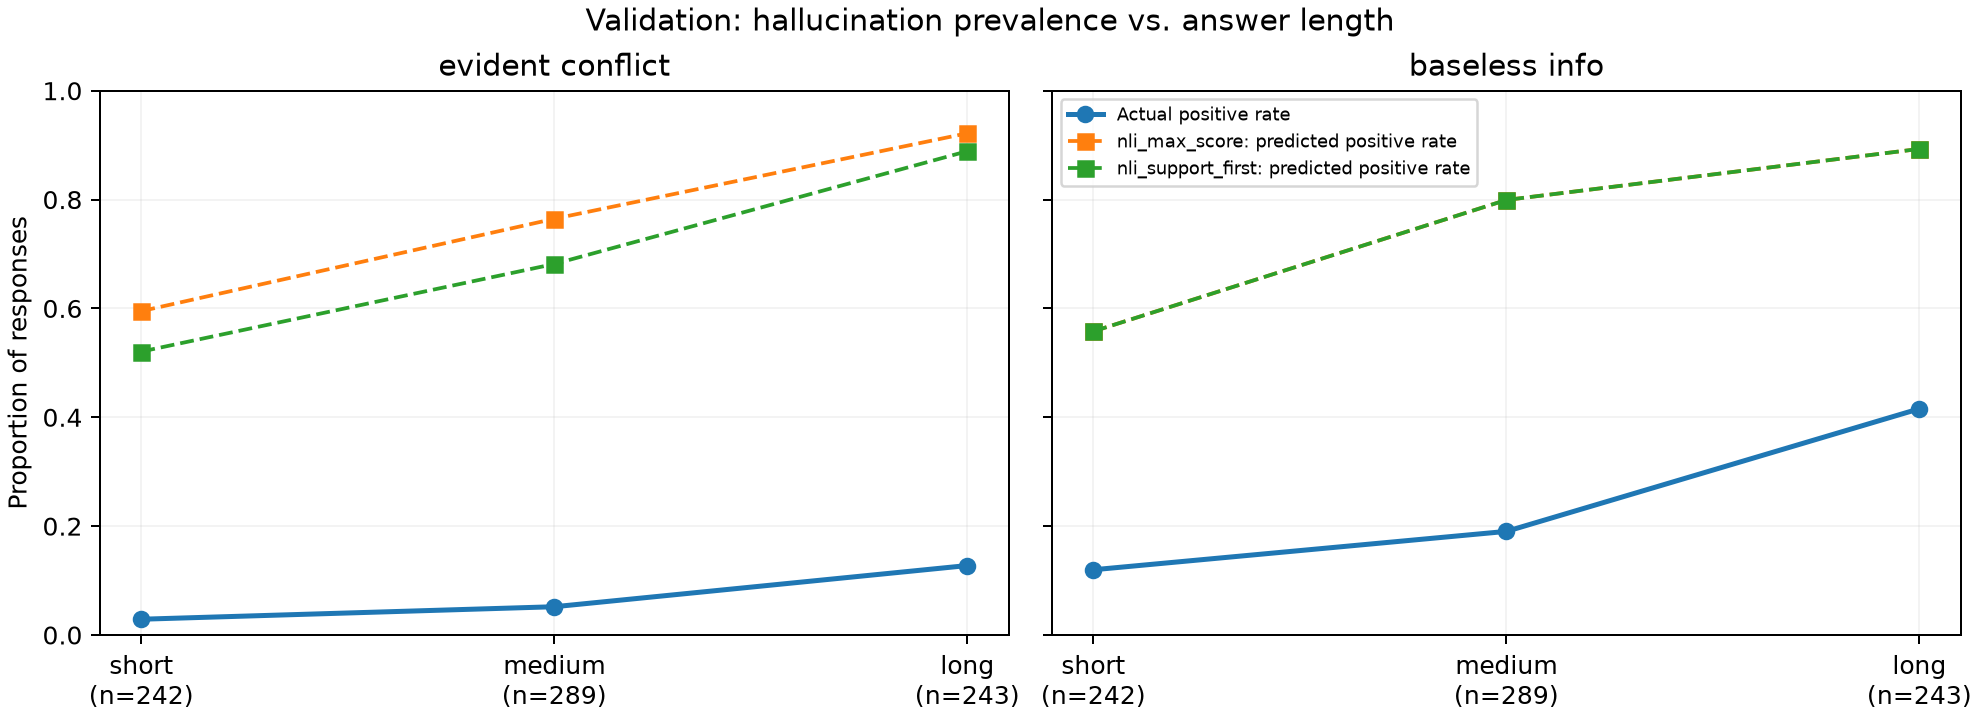
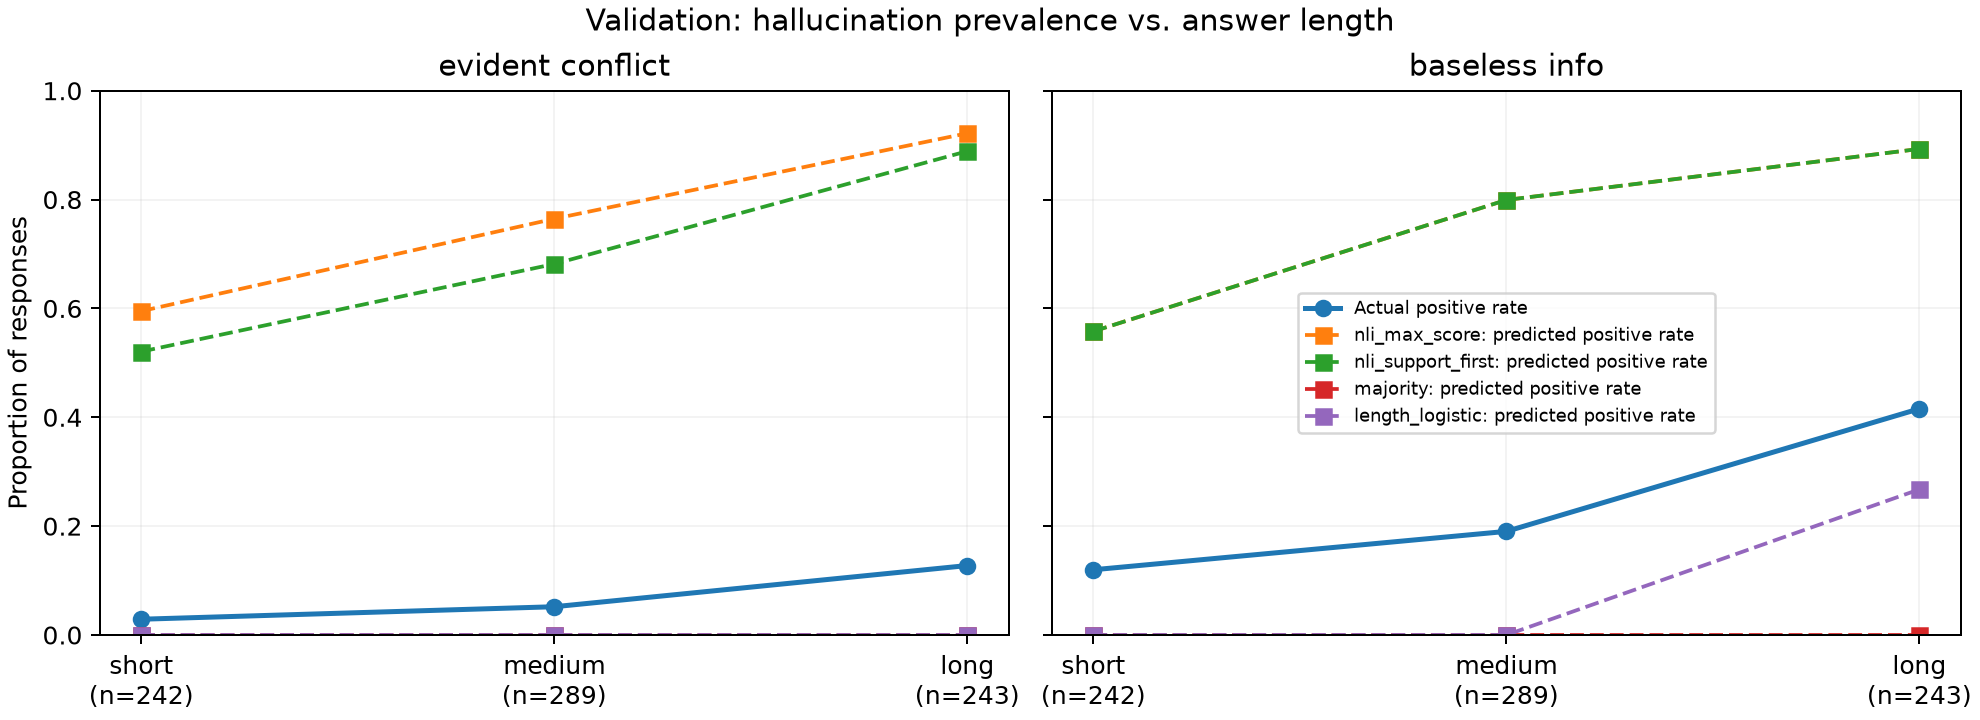
Add majority and logistic regression baselines with documentation

diff --git a/scripts/length_logistic_baseline.py b/scripts/length_logistic_baseline.py
@@ -1,0 +1,62 @@
+import json
+import os
+from sklearn.linear_model import LogisticRegression
+
+# 1. Load data
+def load_data(filename):
+    data = []
+
+    with open(filename, "r") as f:
+        for line in f:
+            data.append(json.loads(line))
+
+    return data
+
+
+train = load_data("data/processed/qa_train.jsonl")
+val = load_data("data/processed/qa_val.jsonl")
+
+
+# 2. Get response lengths
+X_train = []
+X_val = []
+
+for row in train:
+    X_train.append([row["response_tokens"]])
+
+for row in val:
+    X_val.append([row["response_tokens"]])
+
+
+# 3. Train separate logistic regression models
+predictions_by_label = []
+
+for j in range(2):
+    y_train = []
+
+    for row in train:
+        y_train.append(row["labels"][j])
+
+    model = LogisticRegression(max_iter=1000)
+    model.fit(X_train, y_train)
+
+    predictions = model.predict(X_val)
+    predictions_by_label.append(predictions)
+
+
+# 4. Save validation predictions
+os.makedirs("results/length_logistic", exist_ok=True)
+
+with open("results/length_logistic/val_predictions.jsonl", "w") as f:
+    for i in range(len(val)):
+        prediction = {
+            "response_id": str(val[i]["id"]),
+            "predicted_labels": [
+                int(predictions_by_label[0][i]),
+                int(predictions_by_label[1][i])
+            ]
+        }
+
+        f.write(json.dumps(prediction) + "\n")
+
+print("Saved", len(val), "validation predictions.")

diff --git a/scripts/majority_baseline.py b/scripts/majority_baseline.py
@@ -1,0 +1,48 @@
+import json
+import os
+
+# 1. Read JSONL files
+def load_data(filename):
+    data = []
+
+    with open(filename, "r") as f:
+        for line in f:
+            data.append(json.loads(line))
+
+    return data
+
+train = load_data("data/processed/qa_train.jsonl")
+val = load_data("data/processed/qa_val.jsonl")
+
+# 2. Find the majority class for each label
+majority_labels = []
+
+for j in range(2):
+    count_1 = 0
+
+    for row in train:
+        if row["labels"][j] == 1:
+            count_1 += 1
+
+    count_0 = len(train) - count_1
+
+    if count_1 > count_0:
+        majority_labels.append(1)
+    else:
+        majority_labels.append(0)
+
+print("Majority labels:", majority_labels)
+
+# 3. Predict every validation response
+os.makedirs("results/majority", exist_ok=True)
+
+with open("results/majority/val_predictions.jsonl", "w") as f:
+    for row in val:
+        prediction = {
+            "response_id": str(row["id"]),
+            "predicted_labels": majority_labels
+        }
+
+        f.write(json.dumps(prediction) + "\n")
+
+print("Saved", len(val), "validation predictions.")

diff --git a/README.md b/README.md
@@ -35,6 +35,22 @@ The first run downloads the dataset and tokenizers from Hugging Face. No PyTorch
 
 **Note:** Generated JSONL datasets (~127 MB) are excluded from GitHub. Run the scripts above to reproduce them locally. Both audit reports are included in the repository.
 
+### Run the response-level simple baselines
+
+Once the QA files have been generated, run both simple baselines from the repository root:
+
+```bash
+python scripts/majority_baseline.py
+python scripts/length_logistic_baseline.py
+```
+
+These scripts fit on `data/processed/qa_train.jsonl` **only** and export one prediction per response in the **774-example validation set**:
+
+- `results/majority/val_predictions.jsonl`
+- `results/length_logistic/val_predictions.jsonl`
+
+Each JSONL line uses `{"response_id": "11868", "predicted_labels": [0, 0]}`. The label order is `[evident_conflict, baseless_info]`. The validation and test labels are never used to fit these baselines.
+
 ### Run the frozen NLI baseline
 
 ```bash
@@ -42,11 +58,19 @@ python scripts/evaluate_nli_baseline.py
 python scripts/aggregate_nli_baseline.py
 ```
 
+The NLI inference and aggregation scripts produce `results/nli_baseline/val_predictions.jsonl`. If a teammate has already run inference, the complete prediction file can instead be placed at that path locally. **Generated prediction JSONL files are not tracked in Git**; pulling the repository alone will not download them.
+
 ### Generate milestone metrics and figures
 
+After the NLI validation predictions and both simple-baseline prediction files are available, run:
+
 ```bash
-python scripts/metrics_report.py
+python scripts/metrics_report.py \
+  --model majority=results/majority/val_predictions.jsonl \
+  --model length_logistic=results/length_logistic/val_predictions.jsonl
 ```
+
+The reporting script compares both simple baselines with the two frozen-NLI aggregation strategies. Outputs are saved in `results/milestone/`. If the reporting script raises `ModuleNotFoundError: No module named 'matplotlib'`, install the plotting dependency with `python -m pip install matplotlib` in the active environment.
 
 Raw model predictions and generated datasets are excluded from Git. Final metrics and report figures may be committed.
 
@@ -152,7 +176,7 @@ These issues should be considered when implementing the models:
 
 1. **Incomplete evidence:** Some claims require multiple evidence sentences. A single evidence–response pair may appear neutral even when the full context supports the claim. Consider multiple-sentence windows or evidence aggregation.
 
-2. **Prediction aggregation:** The NLI model produces entailment, neutral, and contradiction scores for sentence pairs. How these scores become the two response-level binary predictions is not yet implemented and requires an explicit strategy.
+2. **Prediction aggregation:** The NLI model produces entailment, neutral, and contradiction scores for sentence pairs. `scripts/aggregate_nli_baseline.py` implements max-score and support-first strategies for converting these to response-level predictions, but this approximation can produce false positives and cannot fully represent all multi-label cases.
 
 3. **Sentence-label ambiguity:** 519 hallucination spans cross sentence boundaries, and many cover only part of a sentence. Do not automatically assign the response's positive label to every sentence.
 
@@ -196,20 +220,149 @@ The repository includes two reference reports:
 Compare regenerated reports with these references to confirm reproducibility.
 
 
-## 7. Evaluation Methodology
+## 7. Evaluation Methodology, Baselines & Results
 
-All models are evaluated on the same QA validation and test
-splits using the original response-level multi-label targets:
-`[evident_conflict, baseless_info]`.
+All models are evaluated using the **same original QA validation responses and response-level ground truth** with two binary targets: `[evident_conflict, baseless_info]`. Both can be positive for one response. The **test set remains held out**; all results below are preliminary **validation** results, not final test results. Note that the processed `evident_conflict` label includes both original *Evident Conflict* and *Subtle Conflict* annotations (see Section 4).
 
-The majority-class and length-only logistic regression baselines
-operate directly at response level.
+The main positive-class metrics are **precision, recall, and F1** for each hallucination label. We also report macro-F1 (the unweighted mean of the two per-label F1 scores), weighted-F1, micro-F1, and response-level exact-match accuracy. A prediction must match **both** labels to count toward exact-match accuracy. For details of NLI aggregation and evaluation, see [Evaluation Methodology](docs/evaluation_methodology.md).
 
-The frozen NLI-DeBERTa baseline uses sentence-level inference
-and aggregates predictions back to response level for comparison.
+### 7.1 Majority Class Baseline
 
-See [Evaluation Methodology](docs/evaluation_methodology.md)
-for label definitions, aggregation rules, and evaluation details.
+**Implementation:** [`scripts/majority_baseline.py`](scripts/majority_baseline.py)
+
+For each of the two labels, we count positive (`1`) and negative (`0`) examples in the **4,260-response QA training set** and choose the more frequent label. The baseline uses this pair of majority labels for **every** validation response. It does not read the answer text, evidence, question, or response length.
+
+In our training set, the majority class is negative for both labels, so the baseline always predicts **`[0, 0]`**. We save all 774 predictions, keyed by `response_id`, to `results/majority/val_predictions.jsonl`.
+
+**Validation results:**
+
+| Metric | Evident conflict | Baseless information |
+| --- | ---: | ---: |
+| Precision | 0.0000 | 0.0000 |
+| Recall | 0.0000 | 0.0000 |
+| F1 | 0.0000 | 0.0000 |
+
+- **Macro-F1:** 0.0000
+- **Exact-match accuracy:** 0.7119
+
+Although the baseline correctly predicts both labels for approximately 71.2% of validation responses, it never identifies a **positive hallucination case**. Thus, its positive-class precision, recall, and F1 are all zero. This demonstrates why accuracy alone is misleading when hallucination-positive labels are relatively rare.
+
+![Majority class: validation precision, recall, and F1 by response length](results/milestone/figures/majority_length_metrics.png)
+
+**Figure interpretation:** For all three length groups, both labels have precision, recall, and F1 of zero. The flat result is expected because every prediction is `[0, 0]`, regardless of answer length.
+
+### 7.2 Length-only Logistic Regression Baseline
+
+**Implementation:** [`scripts/length_logistic_baseline.py`](scripts/length_logistic_baseline.py)
+
+To measure whether answer length alone can predict hallucinations, we fit **two separate binary logistic regression models** using `sklearn.linear_model.LogisticRegression(max_iter=1000)`:
+
+- **Predictor:** `response_tokens` — one numeric feature measuring the generated response length, computed during preprocessing using the standard DeBERTa-v3-base tokenizer.
+- **Target 1:** `labels[0]`, the processed conflict label.
+- **Target 2:** `labels[1]`, the baseless-information label.
+- **Training:** Fit both models only on the 4,260 QA training responses.
+- **Validation:** Predict labels for all 774 QA validation responses, using scikit-learn's default binary decision threshold of 0.5.
+
+Each classifier learns its own coefficient and intercept to estimate the probability of a positive label from length alone:
+
+`P(label = 1 | response_tokens = L) = sigmoid(a * L + b)`
+
+No question, evidence, or response text is provided to these classifiers. The two predictions are combined into `[evident_conflict, baseless_info]` for each response and saved to `results/length_logistic/val_predictions.jsonl`.
+
+**Validation results:**
+
+| Metric | Evident conflict | Baseless information |
+| --- | ---: | ---: |
+| Precision | 0.0000 | 0.4923 |
+| Recall | 0.0000 | 0.1730 |
+| F1 | 0.0000 | 0.2560 |
+
+- **Macro-F1:** 0.1280
+- **Weighted-F1:** 0.1990
+- **Exact-match accuracy:** 0.7132
+
+The length-only model does not successfully detect any positive conflict cases. For baseless information, it reaches 0.4923 precision but only 0.1730 recall: **among responses it predicts as baseless, about 49% are actually positive, but it misses most true baseless cases**. Therefore, length provides a modest predictive signal, not a reliable content-grounded detector.
+
+![Length-only logistic regression: validation precision, recall, and F1 by response length](results/milestone/figures/length_logistic_length_metrics.png)
+
+**Figure interpretation:** With the default 0.5 classification threshold, the length-only baseline has zero positive-class F1 in the short and medium bins. Its nonzero baseless-information precision, recall, and F1 are concentrated in the long bin. This is consistent with a decision rule driven by response length, rather than by evidence or factual content.
+
+### 7.3 Overall Baseline Comparison
+
+The table below was obtained from `results/milestone/metrics_summary.csv` using the same **774 QA validation responses** for every model. The frozen NLI baseline is evaluated using two sentence-pair aggregation methods: **max-score** and **support-first**.
+
+| Model | Conflict F1 | Baseless F1 | Macro-F1 | Weighted-F1 | Exact-match accuracy |
+| --- | ---: | ---: | ---: | ---: | ---: |
+| Majority class | 0.0000 | 0.0000 | 0.0000 | 0.0000 | 0.7119 |
+| Length-only logistic regression | 0.0000 | 0.2560 | 0.1280 | 0.1990 | 0.7132 |
+| Frozen NLI — max-score | 0.1526 | 0.4401 | 0.2964 | 0.3761 | 0.1227 |
+| Frozen NLI — support-first | 0.1655 | 0.4401 | **0.3028** | **0.3790** | 0.1499 |
+
+**Interpretation:** Both frozen NLI aggregations achieve substantially higher positive-class F1 than the simple baselines, but they also produce many false positives. The support-first method improves conflict F1 slightly over max-score (0.1655 versus 0.1526), while baseless F1 is unchanged (0.4401). These results are *not* evidence that NLI fine-tuning improves performance: the NLI models reported here are **frozen**, and the separately fine-tuned models remain future experiments.
+
+### 7.4 Response Length and Positive-label Rate
+
+Responses are grouped using **training-derived** token-length cutoffs, rather than thresholds selected from validation outcomes:
+
+| Group | Response length | Validation responses |
+| --- | --- | ---: |
+| Short | ≤108 tokens | 242 |
+| Medium | 109–171 tokens | 289 |
+| Long | >171 tokens | 243 |
+
+![Validation: actual and predicted hallucination-positive rates vs. answer length](results/milestone/figures/length_bias.png)
+
+**Figure interpretation:** The **actual** positive-label rate increases with response length for **both** hallucination categories. In the plotted validation data, baseless-information prevalence rises from roughly 12% in short answers to roughly 42% in long answers; the conflict rate also rises, but remains considerably lower. A longer response offers more opportunities for at least one hallucinated claim, which can lead to a positive **response-level** label.
+
+The majority baseline predicts zero positives in every group. The length-only logistic regression predicts positive baseless-information labels primarily for long responses, yet underpredicts their actual prevalence. Conversely, the frozen NLI baseline predicts far more positives than the ground truth, especially in longer responses.
+
+**Important distinction:** Increasing ground-truth positive-label rates with answer length establish a **length–label association in this dataset**. They do **not**, by themselves, prove that a particular model is unfairly biased by length. That question requires analyzing model predictions and errors conditional on length.
+
+### 7.5 Frozen NLI Performance by Response Length
+
+![Frozen NLI max-score: validation precision, recall, and F1 by response length](results/milestone/figures/nli_max_score_length_metrics.png)
+
+**Max-score aggregation:** Recall is high across short, medium, and long responses, but precision remains low, especially for conflict predictions. As response length increases, precision and F1 generally improve, yet the large false-positive burden limits overall reliability.
+
+![Frozen NLI support-first: validation precision, recall, and F1 by response length](results/milestone/figures/nli_support_first_length_metrics.png)
+
+**Support-first aggregation:** The pattern is similar: high recall but low precision, with a small improvement over max-score for conflict F1. Both aggregations operate on sentence-pair NLI scores and must approximate two independent response-level hallucination labels. This mismatch is a limitation of the frozen baseline, not evidence of a failure in our response-level ground-truth annotations.
+
+For context, the full-validation frozen NLI results include:
+
+| Frozen NLI variant | Conflict precision | Conflict recall | Baseless precision | Baseless recall |
+| --- | ---: | ---: | ---: | ---: |
+| Max-score | 0.0832 | 0.9245 | 0.2899 | 0.9135 |
+| Support-first | 0.0909 | 0.9245 | 0.2899 | 0.9135 |
+
+The high recall (above 0.91 for both labels) paired with low precision indicates **substantial overprediction of hallucinations** and motivates subsequent task-specific fine-tuning and error analysis.
+
+### 7.6 Key Takeaways and Next Experiments
+
+1. **Class imbalance:** Always predicting `[0, 0]` achieves 71.2% exact-match accuracy but detects no positive hallucinations. Per-label positive-class F1 is essential.
+2. **Answer length carries information:** The true positive rate rises with response length, and a length-only model obtains a baseless-information F1 of 0.2560. However, length by itself is insufficient for detecting individual hallucinations.
+3. **Conflict detection remains difficult:** None of the simple baselines detects positive conflicts; frozen NLI detects many but with very low precision.
+4. **Frozen NLI overpredicts positives:** Both sentence-level aggregation strategies show high recall but many false positives, motivating more appropriate response-level training.
+5. **Planned fair comparison:** Fine-tune both an NLI-adapted DeBERTa-v3-base checkpoint and `microsoft/deberta-v3-base` using the **same QA training split, two-label classification head, and evaluation protocol** to isolate the contribution of prior NLI adaptation.
+6. **Planned cross-task study:** Compare QA-only fine-tuning with training on QA, summarization, and data-to-text examples while evaluating on the same held-out QA data. Analyze token truncation for full-context training separately from the sentence-pair preprocessing described in Section 4.
+
+### 7.7 Reproducibility and Output Files
+
+Run the two simple baselines and shared report as described in [Section 1](#1-setup). The prediction files are **generated locally and ignored by Git**, so the reporting script also requires the frozen NLI predictions at `results/nli_baseline/val_predictions.jsonl` (generated by the NLI scripts or provided by a teammate).
+
+The reporting script writes the following artifacts:
+
+| Path | Description |
+| --- | --- |
+| `results/milestone/metrics_summary.csv` | Model-level precision, recall, F1, and other aggregate scores |
+| `results/milestone/metrics.json` | Structured metrics for downstream analysis |
+| `results/milestone/figures/majority_length_metrics.png` | Majority baseline performance by length |
+| `results/milestone/figures/length_logistic_length_metrics.png` | Length-only logistic regression performance by length |
+| `results/milestone/figures/length_bias.png` | Actual vs. predicted positive-label rates by length |
+| `results/milestone/figures/nli_max_score_length_metrics.png` | Frozen NLI max-score performance by length |
+| `results/milestone/figures/nli_support_first_length_metrics.png` | Frozen NLI support-first performance by length |
+
+**Repository publishing note:** For GitHub to display the figures embedded above, the `.png` files must be committed alongside this README (subject to the repository's ignore rules). Generated datasets and individual response-level prediction JSONL files should remain untracked. These are preliminary **validation** results; do not describe them as final test results.
 
 ## 8. References
 
@@ -218,4 +371,4 @@ for label definitions, aggregation rules, and evaluation details.
 - [Microsoft DeBERTa-v3-base](https://huggingface.co/microsoft/deberta-v3-base)
 - [NLI-DeBERTa (MNLI/FEVER/ANLI)](https://huggingface.co/MoritzLaurer/DeBERTa-v3-base-mnli-fever-anli)
 
-**Data usage:** Only preprocessing scripts and audit statistics are tracked in Git. Before redistributing generated datasets, check the applicable dataset licenses and terms.
+**Data usage:** Source code, documentation, audit statistics, and selected summary metrics/figures may be tracked in Git. Generated datasets and raw model prediction files remain excluded. Before redistributing generated datasets, check the applicable dataset licenses and terms.
